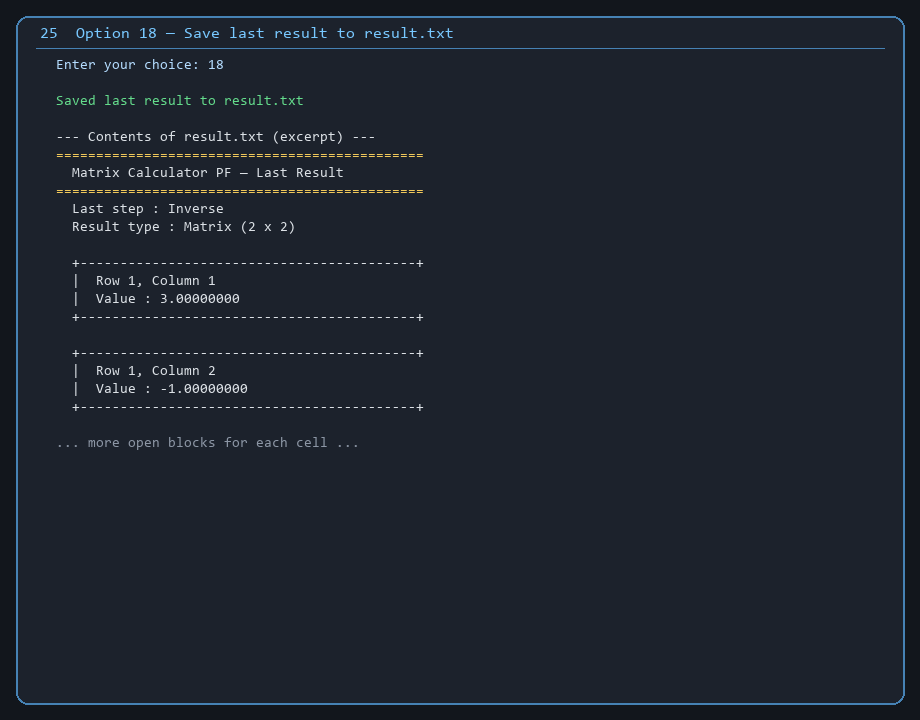
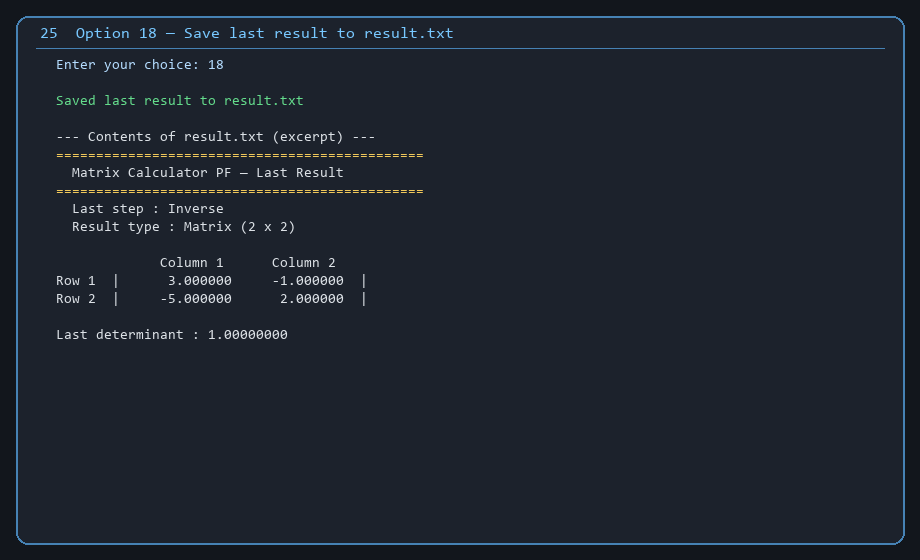
Show results in matrix grid format on console and in result.txt.
Replace per-cell block layout with Row/Column matrix display for easier reading.

diff --git a/Source.cpp b/Source.cpp
@@ -259,72 +259,63 @@ void zeroMatrix(double M[N][N], int n) {
             M[i][j] = 0.0;
 }
 
-void writeMatrixBlocks(ostream& out, const double M[N][N], int rows, int cols, int prec = 6) {
+void writeMatrixGrid(ostream& out, const double M[N][N], int rows, int cols, int prec = 6) {
     out << fixed << setprecision(prec);
+    out << "\n        ";
+    for (int j = 0; j < cols; j++)
+        out << setw(14) << ("Column " + to_string(j + 1));
+    out << "\n";
     for (int i = 0; i < rows; i++) {
-        for (int j = 0; j < cols; j++) {
-            out << "\n";
-            out << "  +------------------------------------------+\n";
-            out << "  |  Row " << (i + 1) << ", Column " << (j + 1) << "\n";
-            out << "  |  Value : " << M[i][j] << "\n";
-            out << "  +------------------------------------------+\n";
-        }
-        out << "\n";
+        out << "  Row " << (i + 1) << "  |";
+        for (int j = 0; j < cols; j++)
+            out << setw(14) << M[i][j];
+        out << "  |\n";
     }
-    out << defaultfloat;
+    out << "\n" << defaultfloat;
 }
 
-void writeVectorBlocks(ostream& out, const double v[], int n, const char* label, int prec = 6) {
+void writeVectorList(ostream& out, const double v[], int n, const char* label, int prec = 6) {
     out << fixed << setprecision(prec);
-    for (int i = 0; i < n; i++) {
-        out << "\n";
-        out << "  +------------------------------------------+\n";
-        out << "  |  " << label << " " << (i + 1) << "\n";
-        out << "  |  Value : " << v[i] << "\n";
-        out << "  +------------------------------------------+\n";
-    }
+    out << "\n";
+    for (int i = 0; i < n; i++)
+        out << "  " << label << " " << (i + 1) << "  =  " << setw(14) << v[i] << "\n";
     out << "\n" << defaultfloat;
 }
 
 void printMatrix(const double M[N][N], int rows, int cols, int prec = 6) {
     setColor(C_DIM);
     cout << "\n  Matrix (" << rows << " x " << cols << "):\n";
+    cout << "        ";
+    for (int j = 0; j < cols; j++)
+        cout << setw(14) << ("Column " + to_string(j + 1));
+    cout << "\n";
     setColor(C_RESET);
+
     cout << fixed << setprecision(prec);
     for (int i = 0; i < rows; i++) {
-        for (int j = 0; j < cols; j++) {
-            setColor(C_TITLE);
-            cout << "\n  +------------------------------------------+\n";
-            setColor(C_HIGH);
-            cout << "  |  Row " << (i + 1) << ", Column " << (j + 1) << "\n";
-            setColor(C_OK);
-            cout << "  |  Value : " << M[i][j] << "\n";
-            setColor(C_TITLE);
-            cout << "  +------------------------------------------+\n";
-            setColor(C_RESET);
-        }
-        cout << "\n";
+        setColor(C_DIM);
+        cout << "  Row " << (i + 1) << "  ";
+        setColor(C_HIGH);
+        cout << "|";
+        for (int j = 0; j < cols; j++)
+            cout << setw(14) << M[i][j];
+        cout << "  |\n";
     }
-    cout << defaultfloat;
+    setColor(C_RESET);
+    cout << defaultfloat << "\n";
 }
 
 void printVector(const double v[], int n, int prec = 6) {
-    setColor(C_DIM);
-    cout << "\n  Answer list:\n";
-    setColor(C_RESET);
     cout << fixed << setprecision(prec);
+    cout << "\n";
     for (int i = 0; i < n; i++) {
-        setColor(C_TITLE);
-        cout << "\n  +------------------------------------------+\n";
-        setColor(C_HIGH);
-        cout << "  |  Entry " << (i + 1) << "\n";
         setColor(C_OK);
-        cout << "  |  Value : " << v[i] << "\n";
-        setColor(C_TITLE);
-        cout << "  +------------------------------------------+\n";
-        setColor(C_RESET);
+        cout << "  Entry " << (i + 1) << "  =  ";
+        setColor(C_HIGH);
+        cout << setw(14) << v[i] << "\n";
     }
-    cout << "\n" << defaultfloat;
+    setColor(C_RESET);
+    cout << defaultfloat << "\n";
 }
 
 void storeLastMatrix(const double M[N][N], int rows, int cols, const char* opName) {
@@ -1178,22 +1169,16 @@ void opSaveResult() {
 
     if (lastResultIsVector) {
         out << "\n  Result type : Number list (" << lastVectorLen << " entries)\n";
-        writeVectorBlocks(out, lastVector, lastVectorLen, "Entry");
+        writeVectorList(out, lastVector, lastVectorLen, "Entry");
     } else if (lastResultRows == 1 && lastResultCols == 1) {
         out << "\n  Result type : Single value\n";
-        out << "\n  +------------------------------------------+\n";
-        out << "  |  Result\n";
-        out << "  |  Value : " << lastResult[0][0] << "\n";
-        out << "  +------------------------------------------+\n\n";
+        out << "  Value : " << lastResult[0][0] << "\n\n";
     } else {
         out << "\n  Result type : Matrix (" << lastResultRows << " x " << lastResultCols << ")\n";
-        writeMatrixBlocks(out, lastResult, lastResultRows, lastResultCols, 8);
+        writeMatrixGrid(out, lastResult, lastResultRows, lastResultCols, 8);
     }
 
-    out << "\n  +------------------------------------------+\n";
-    out << "  |  Last determinant\n";
-    out << "  |  Value : " << lastDet << "\n";
-    out << "  +------------------------------------------+\n";
+    out << "  Last determinant : " << lastDet << "\n";
     out << "\n==============================================\n";
     out.close();
     cout << "\n  Saved last result to result.txt\n";
@@ -1208,16 +1193,10 @@ void opHistory() {
             printVector(lastVector, lastVectorLen);
         } else if (lastResultRows == 1 && lastResultCols == 1) {
             cout << "  Last result (single value):\n";
-            setColor(C_TITLE);
-            cout << "\n  +------------------------------------------+\n";
-            setColor(C_HIGH);
-            cout << "  |  Result\n";
             setColor(C_OK);
             cout << fixed << setprecision(6);
-            cout << "  |  Value : " << lastResult[0][0] << "\n";
+            cout << "  Value : " << lastResult[0][0] << "\n\n";
             cout << defaultfloat;
-            setColor(C_TITLE);
-            cout << "  +------------------------------------------+\n\n";
             setColor(C_RESET);
         } else {
             cout << "  Last result (matrix " << lastResultRows << " x " << lastResultCols << "):\n";

diff --git a/docs/generate_screenshots.py b/docs/generate_screenshots.py
@@ -147,33 +147,19 @@ shot(
 
 shot(
     "04-display-matrix.png",
-    "04  Option 1 — Show matrix (block form)",
+    "04  Option 1 — Show matrix",
     [
         ("  Enter your choice: 1", PROMPT),
         "",
         "  --- Matrix A (3x3) ---",
-        ("  Matrix (3 x 3) — one block per value:", DIM),
-        "",
-        ("  +------------------------------------------+", TITLE),
-        "  |  Row 1, Column 1",
-        ("  |  Value : 1.000000", GREEN),
-        ("  +------------------------------------------+", TITLE),
-        "",
-        ("  +------------------------------------------+", TITLE),
-        "  |  Row 1, Column 2",
-        ("  |  Value : 2.000000", GREEN),
-        ("  +------------------------------------------+", TITLE),
-        "",
-        ("  +------------------------------------------+", TITLE),
-        "  |  Row 1, Column 3",
-        ("  |  Value : 3.000000", GREEN),
-        ("  +------------------------------------------+", TITLE),
-        "",
-        ("  ... more open blocks for remaining cells ...", DIM),
+        ("  Matrix (3 x 3):", DIM),
+        "               Column 1      Column 2      Column 3",
+        "  Row 1  |      1.000000      2.000000      3.000000  |",
+        "  Row 2  |      0.000000      1.000000      4.000000  |",
+        "  Row 3  |      5.000000      6.000000      0.000000  |",
         "",
         ("  Last step : Display matrix", DIM),
     ],
-    height=720,
 )
 
 shot(
@@ -531,43 +517,28 @@ shot(
         "    Last step : Inverse",
         "    Result type : Matrix (2 x 2)",
         "",
-        "    +------------------------------------------+",
-        "    |  Row 1, Column 1",
-        "    |  Value : 3.00000000",
-        "    +------------------------------------------+",
+        "               Column 1      Column 2",
+        "  Row 1  |      3.000000     -1.000000  |",
+        "  Row 2  |     -5.000000      2.000000  |",
         "",
-        "    +------------------------------------------+",
-        "    |  Row 1, Column 2",
-        "    |  Value : -1.00000000",
-        "    +------------------------------------------+",
-        "",
-        ("  ... more open blocks for each cell ...", DIM),
+        "  Last determinant : 1.00000000",
     ],
-    height=720,
 )
 
 shot(
     "26-operation-history.png",
-    "26  Option 19 — Show last result (blocks)",
+    "26  Option 19 — Show last result",
     [
         ("  Enter your choice: 19", PROMPT),
         "",
         ("  Last step: Inverse", GREEN),
         "  Last result (matrix 2 x 2):",
         "",
-        "  +------------------------------------------+",
-        "  |  Row 1, Column 1",
-        ("  |  Value : 3.000000", GREEN),
-        "  +------------------------------------------+",
-        "",
-        "  +------------------------------------------+",
-        "  |  Row 1, Column 2",
-        ("  |  Value : -1.000000", GREEN),
-        "  +------------------------------------------+",
-        "",
-        ("  ... open blocks continue for every cell ...", DIM),
+        ("  Matrix (2 x 2):", DIM),
+        "               Column 1      Column 2",
+        "  Row 1  |      3.000000     -1.000000  |",
+        "  Row 2  |     -5.000000      2.000000  |",
     ],
-    height=640,
 )
 
 shot(
